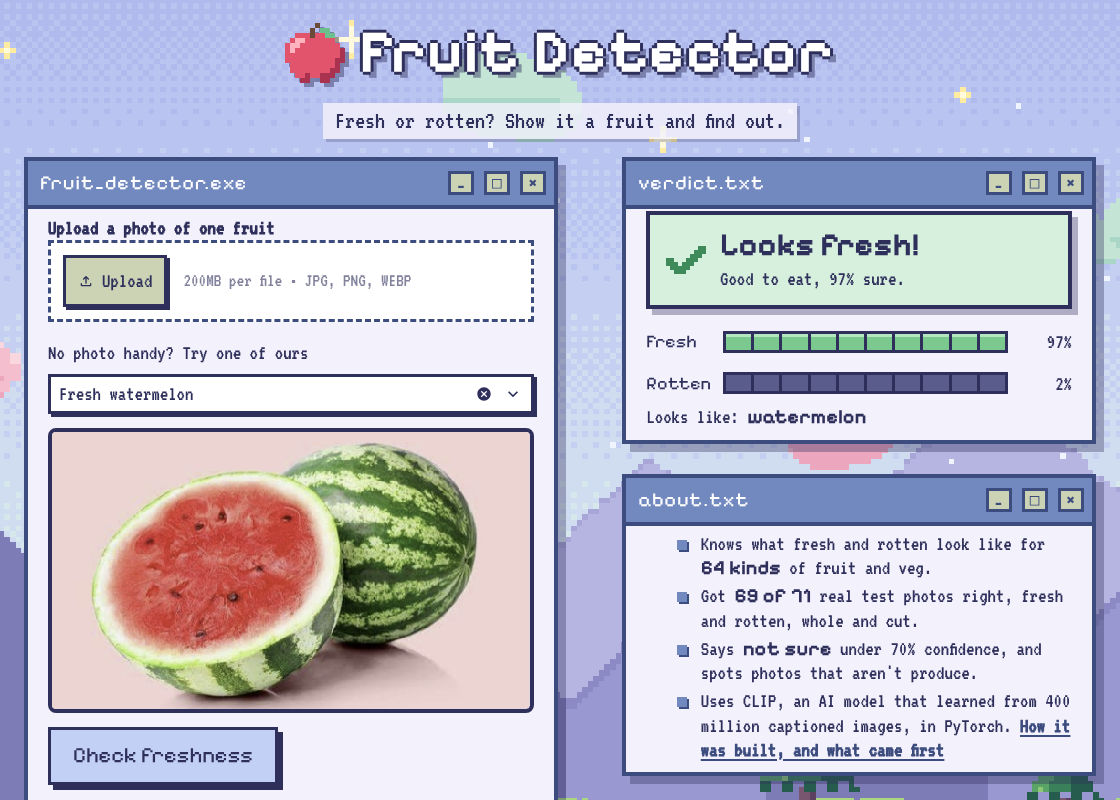
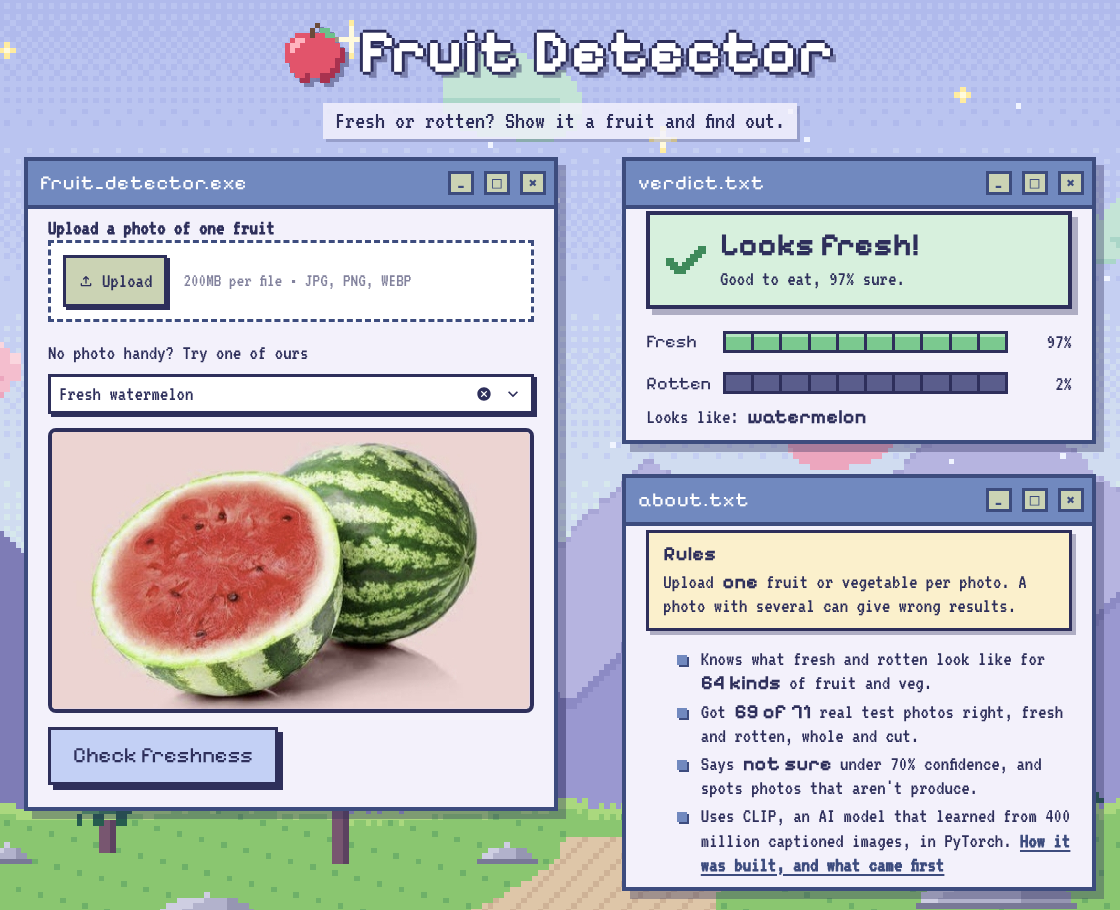
Add upload rule to about.txt

diff --git a/src/ui.py b/src/ui.py
@@ -255,6 +255,14 @@ header[data-testid="stHeader"] {{ background: transparent; }}
 .fd-slot p, .fd-waiting p {{ margin: 0; color: #6B6E9C; max-width: 30ch; line-height: 1.15; }}
 .fd-ghost {{ opacity: 0.35; }}
 
+/* about window: rules note, then facts */
+.fd-rules {{
+  background: #FBF0CC; border: 3px solid var(--ink); box-shadow: 4px 4px 0 rgba(46, 47, 91, 0.35);
+  padding: 10px 14px; margin: 2px 0 16px;
+}}
+.fd-rules p {{ margin: 0; line-height: 1.15; }}
+.fd-rules .fd-rules-title {{ font-family: var(--display); font-weight: 700; font-size: 20px; margin-bottom: 4px; }}
+.fd-rules b {{ font-family: var(--display); font-weight: 700; font-size: 20px; }}
 /* about window */
 .fd-about {{ list-style: none; margin: 0; padding: 0; display: grid; gap: 10px; }}
 .fd-about li {{ display: grid; grid-template-columns: 14px 1fr; gap: 10px; align-items: baseline; line-height: 1.15; }}
@@ -334,7 +342,9 @@ def waiting():
 
 
 def about(repo_url, n_produce):
-    return ('<ul class="fd-about">'
+    return ('<div class="fd-rules" role="note"><p class="fd-rules-title">Rules</p>'
+            '<p>Upload <b>one</b> fruit or vegetable per photo. A photo with several can give wrong results.</p></div>'
+            '<ul class="fd-about">'
             f'<li><span>Knows what fresh and rotten look like for <b>{n_produce} kinds</b> of fruit and veg.</span></li>'
             '<li><span>Got <b>69 of 71</b> real test photos right, fresh and rotten, whole and cut.</span></li>'
             '<li><span>Says <b>not sure</b> under 70% confidence, and spots photos that aren\'t produce.</span></li>'
